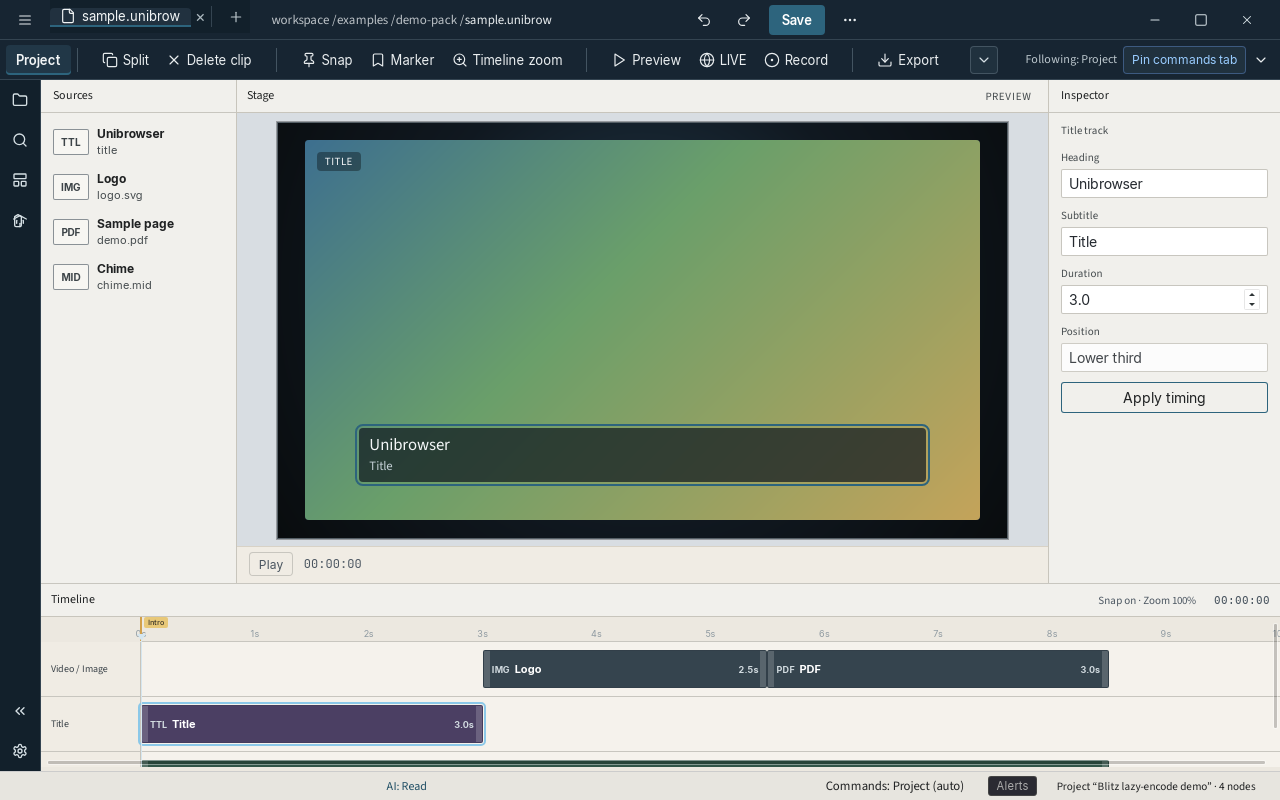
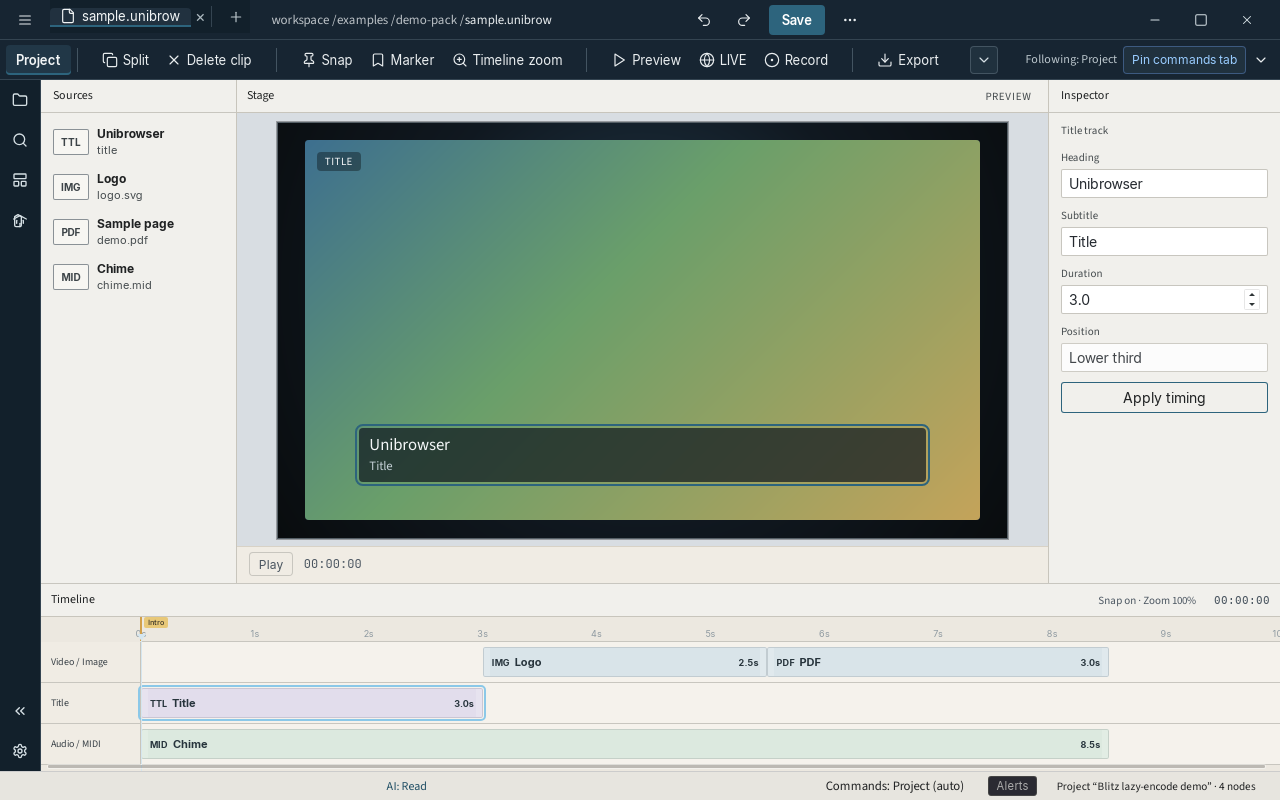
UI-24: Keep all Workshop tracks visible

Changed region(s): [[0.0312, 0.7812, 1.0, 0.9688], [0.9688, 0.8438, 1.0, 0.9062], [0.0312, 0.8125, 0.0938, 0.8438]]

diff --git a/crates/unibrowser-desktop/src/styles.css b/crates/unibrowser-desktop/src/styles.css
@@ -4438,6 +4438,22 @@ select:focus-visible,
 
 [data-theme="light"] .workshop-clip {
   border: 1px solid rgb(31 35 38 / 12%);
+  color: #27343c;
+  background: #d9e4e9;
+}
+
+[data-theme="light"] .workshop-clip--title {
+  background: #e2ddec;
+}
+
+[data-theme="light"] .workshop-clip--audio {
+  background: #dce9df;
+}
+
+[data-theme="light"] .workshop-clip strong,
+[data-theme="light"] .workshop-clip-type,
+[data-theme="light"] .workshop-clip-duration {
+  color: #27343c;
 }
 
 [data-theme="light"] .workshop-transport {
@@ -4486,7 +4502,16 @@ select:focus-visible,
   }
 
   .workshop-timeline-viewport {
-    max-height: 150px;
+    max-height: none;
+  }
+
+  .workshop-track-row {
+    height: 40px;
+  }
+
+  .workshop-clip {
+    top: 5px;
+    bottom: 5px;
   }
 }
 
